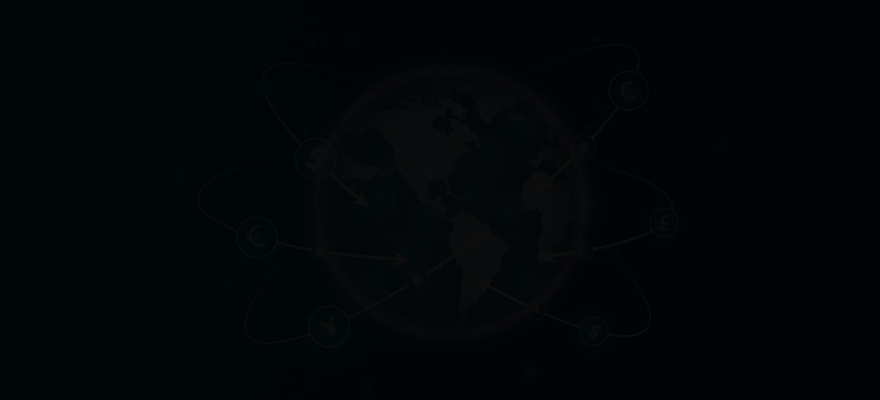
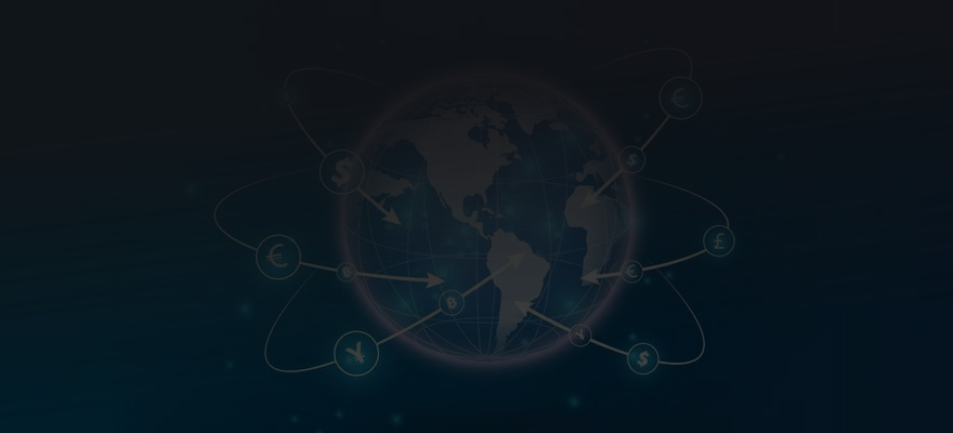
cambio de fondos y look and feel

diff --git a/css/styles.css b/css/styles.css
@@ -881,6 +881,8 @@ input[type="checkbox"] {
 .tabs {
   padding-top: 0.375rem;
   padding-bottom: 6.875rem;
+  background-color: rgb(0, 0, 0);
+  background: url("../images/fondo3.png") center center no-repeat;
   background-size: cover;
 }
 
@@ -1151,6 +1153,8 @@ input[type="checkbox"] {
 .basic-2 {
   padding-top: 0.375rem;
   padding-bottom: 6.875rem;
+  background: url(../images/about.png) center center no-repeat;
+  background-color: #00112bff;
   background-size: cover;
 }
 
@@ -1984,9 +1988,6 @@ a:hover.back-to-top {
     border-top-right-radius: 20px;
     border-top-left-radius: 20px;
     border-bottom-left-radius: 20px;
-    box-shadow: -28px 13px 60px -10px rgba(57, 83, 130, 0.74),
-      20px -10px 60px -10px rgba(0, 104, 171, 0.8),
-      64px 22px 60px -15px rgba(0, 53, 202, 0.8);
   }
 
   .header .image-container {
